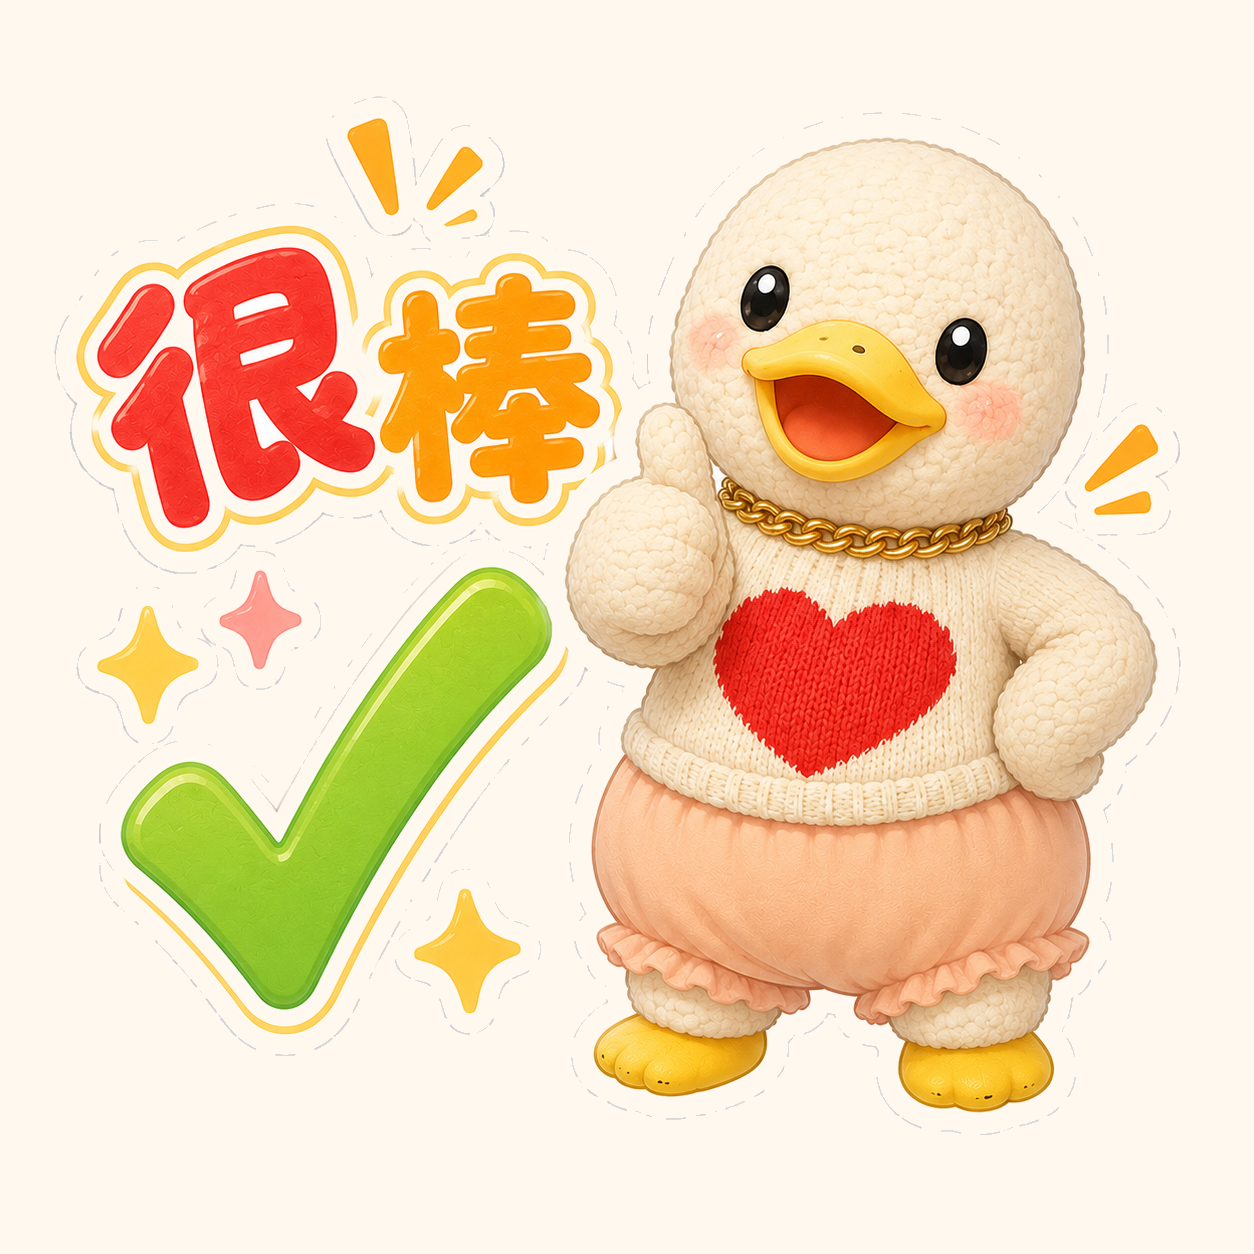
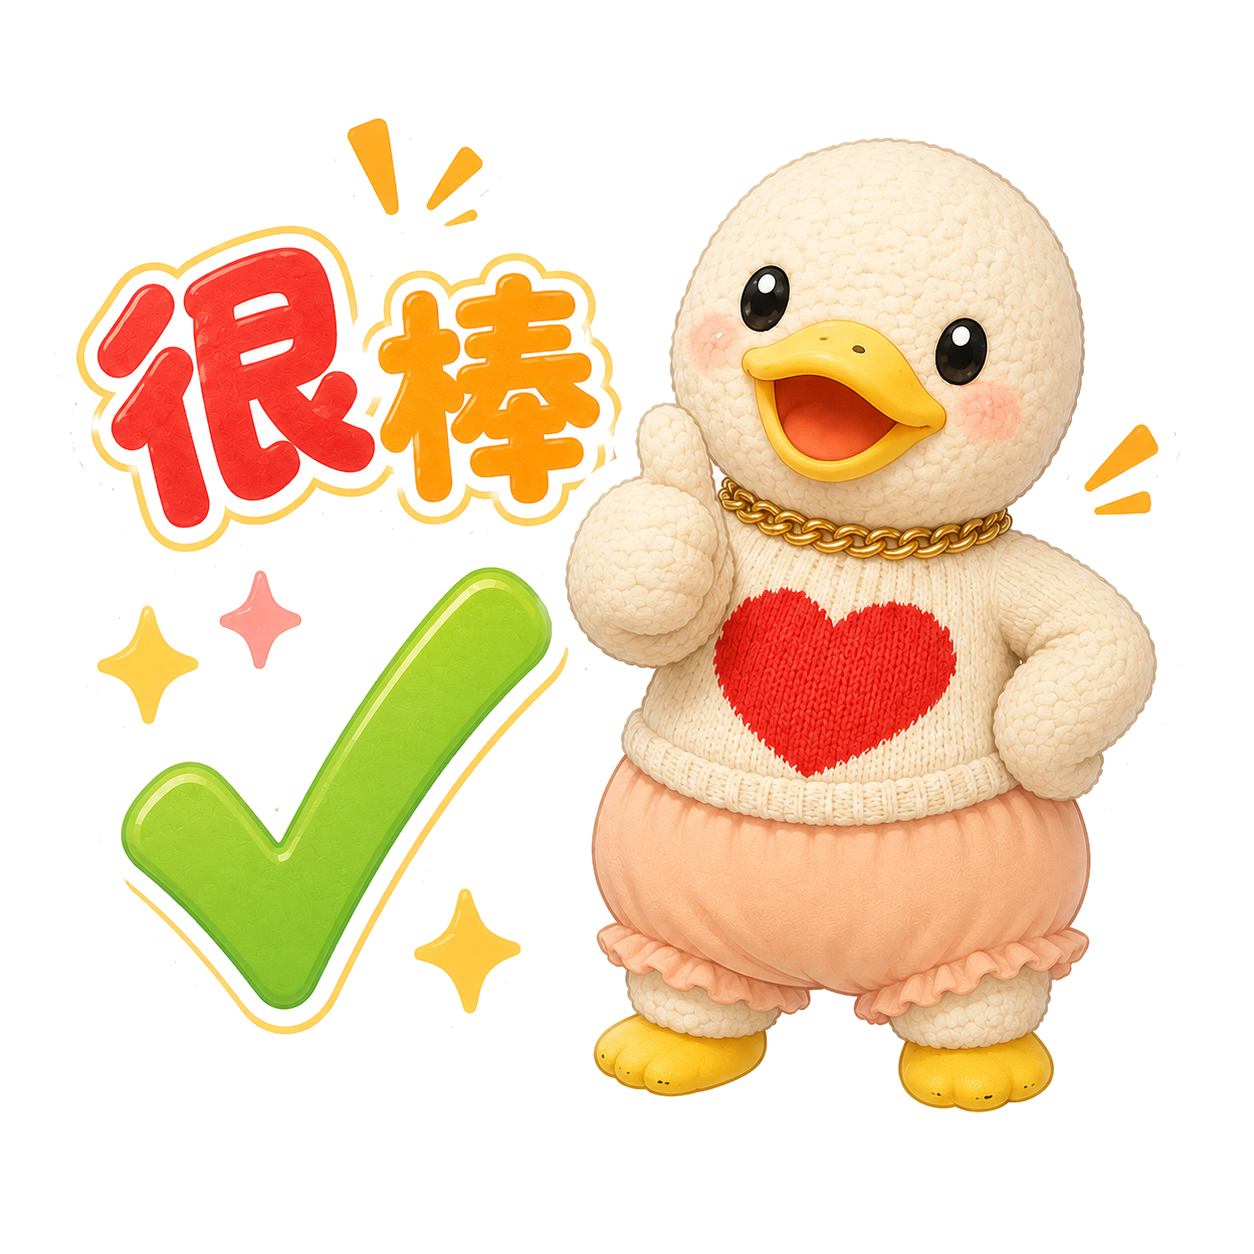
feat: flip-card includes recent scene words, tutor selection in settings, de-bg scene reward images
- Flip-card review now merges saved words + recently practiced scene vocabulary (gardenService.addSceneWords, recorded on scene completion with dictionary meanings)
- AI tutor selection moved/added to Settings per target language (reuses TutorSelector)
- Background-removed all scene practice reward/score images

diff --git a/src/services/gardenService.ts b/src/services/gardenService.ts
@@ -11,6 +11,13 @@ import type {
 } from "@/types";
 import { KEYS, storageService } from "./storageService";
 
+type RecentSceneWord = {
+  word: string;
+  meaning: string;
+  language: LearningLanguageCode;
+  at: number;
+};
+
 const PLOT_COUNT = 6;
 const LANGUAGE_CODES: LearningLanguageCode[] = ["en", "ja", "ko", "it", "es"];
 const STARTER_HOUSE_ID = "hut-house";
@@ -384,8 +391,8 @@ function savedWordBelongsToLanguage(word: SavedWord, language: LearningLanguageC
   return word.language === language;
 }
 
-function hasPreciseMeaning(word: SavedWord) {
-  const meaning = word.zh.trim();
+function meaningIsPrecise(rawMeaning: string) {
+  const meaning = rawMeaning.trim();
   return Boolean(
     meaning &&
       !meaning.includes("練習詞") &&
@@ -393,6 +400,10 @@ function hasPreciseMeaning(word: SavedWord) {
       !meaning.includes("情境對話常見") &&
       !meaning.includes("常見名詞或名稱")
   );
+}
+
+function hasPreciseMeaning(word: SavedWord) {
+  return meaningIsPrecise(word.zh);
 }
 
 function userLeagueEntry(name = "You"): GardenLeagueEntry {
@@ -543,8 +554,35 @@ export const gardenService = {
         meaning: word.zh,
         language,
       }));
-    const cards = uniqueCards(saved);
+    const scene = storageService.get<RecentSceneWord[]>(KEYS.recentSceneWords, [])
+      .filter((item) => item.language === language && meaningIsPrecise(item.meaning))
+      .sort((a, b) => b.at - a.at)
+      .map((item) => ({
+        id: `${language}-scene-${item.word}`,
+        word: item.word,
+        meaning: item.meaning,
+        language,
+      }));
+    const cards = uniqueCards([...saved, ...scene]);
     return cards.slice(0, limit);
+  },
+
+  addSceneWords(language: LearningLanguageCode, words: { word: string; meaning: string }[]) {
+    const incoming = words
+      .map((item) => ({ word: item.word.trim(), meaning: item.meaning.trim() }))
+      .filter((item) => item.word && meaningIsPrecise(item.meaning));
+    if (incoming.length === 0) return;
+    const existing = storageService.get<RecentSceneWord[]>(KEYS.recentSceneWords, []);
+    const now = Date.now();
+    const merged: RecentSceneWord[] = [...existing];
+    for (const item of incoming) {
+      const key = `${language}:${item.word.toLowerCase()}`;
+      const idx = merged.findIndex((w) => `${w.language}:${w.word.toLowerCase()}` === key);
+      if (idx >= 0) merged[idx] = { ...merged[idx], meaning: item.meaning, at: now };
+      else merged.push({ word: item.word, meaning: item.meaning, language, at: now });
+    }
+    const trimmed = merged.sort((a, b) => b.at - a.at).slice(0, 120);
+    storageService.set(KEYS.recentSceneWords, trimmed);
   },
 
   getReviewCardCount(language: LearningLanguageCode): number {

diff --git a/src/app/settings/page.tsx b/src/app/settings/page.tsx
@@ -2,7 +2,7 @@
 
 import { useEffect, useState } from "react";
 import { useRouter } from "next/navigation";
-import { LogOut, User as UserIcon, Globe, Volume2, ShieldCheck, Users, Plus, MessageSquareWarning } from "lucide-react";
+import { LogOut, User as UserIcon, Globe, Volume2, ShieldCheck, Users, Plus, MessageSquareWarning, GraduationCap } from "lucide-react";
 import type { User, UserSettings, OnboardingProfile } from "@/types";
 import { useUser } from "@/hooks/useUser";
 import { learningService } from "@/services/learningService";
@@ -10,6 +10,7 @@ import { authService } from "@/services/authService";
 import { LEARNING_LANGUAGES, getLearningLanguage } from "@/data/learningLanguages";
 import AppHeader from "@/components/AppHeader";
 import BottomNav from "@/components/BottomNav";
+import TutorSelector from "@/components/TutorSelector";
 import { Toggle, LevelBadge } from "@/components/ui";
 
 export default function SettingsPage() {
@@ -177,6 +178,12 @@ export default function SettingsPage() {
               </button>
             ))}
           </div>
+        </div>
+
+        <div className="card space-y-3">
+          <p className="font-bold text-ink flex items-center gap-2"><GraduationCap size={18} className="text-lilacDeep" /> AI 導師</p>
+          <p className="text-xs text-inkSoft">為「{currentLanguage.flag} {currentLanguage.zhName}」選擇男生或女生導師，對話與情境練習都會使用這位導師的聲音。</p>
+          <TutorSelector targetLanguage={settings.targetLanguage} />
         </div>
 
         <div className="card space-y-4">

diff --git a/src/app/scenes/[themeId]/[sceneId]/page.tsx b/src/app/scenes/[themeId]/[sceneId]/page.tsx
@@ -7,6 +7,7 @@ import { sceneService } from "@/services/sceneService";
 import { learningService } from "@/services/learningService";
 import { dictionaryService } from "@/services/dictionaryService";
 import { sceneReviewService } from "@/services/sceneReviewService";
+import { gardenService } from "@/services/gardenService";
 import { speechService } from "@/services/speechService";
 import { storageService, KEYS } from "@/services/storageService";
 import { authService } from "@/services/authService";
@@ -119,6 +120,17 @@ export default function ScenePracticePage() {
       completed: true,
       minutes: activeScene!.minutes,
     });
+
+    // Add practiced scene vocabulary to the farm flip-card review pool.
+    const practicedWords = Array.from(
+      new Set([...(activeScene!.keyWords || []), ...(result.conversationWords || [])])
+    )
+      .map((word) => ({
+        word,
+        meaning: dictionaryService.lookup(word, targetLanguage).entry?.zh?.trim() || "",
+      }))
+      .filter((item) => item.meaning);
+    gardenService.addSceneWords(targetLanguage, practicedWords);
 
     const shouldShowSceneReview = sceneReviewService.isDue();
     storageService.set(KEYS.lastResult, {

diff --git a/src/app/garden/page.tsx b/src/app/garden/page.tsx
@@ -560,7 +560,7 @@ export default function GardenPage() {
               <Lock className="mx-auto text-lilacDeep" size={28} />
               <p className="mt-2 font-extrabold text-ink">單字量不足，暫時無法開啟翻牌遊戲</p>
               <p className="mt-1 text-sm leading-relaxed text-inkSoft">
-                需要至少 4 個「{currentLanguage.zhName}」收藏單字或加入複習的單字。請先在場景句子中點單字並收藏，多多學習後再回來挑戰。
+                需要至少 4 個「{currentLanguage.zhName}」單字。可收藏單字、加入複習，或直接完成場景練習，最近練過的場景單字也會自動加入這裡。
               </p>
             </div>
           ) : deck.length === 0 ? (

diff --git a/src/services/storageService.ts b/src/services/storageService.ts
@@ -51,6 +51,7 @@ export const KEYS = {
   stats: "stats",
   records: "records",
   savedWords: "savedWords",
+  recentSceneWords: "recentSceneWords",
   savedSentences: "savedSentences",
   examResults: "examResults",
   wrongQuestions: "wrongQuestions",
